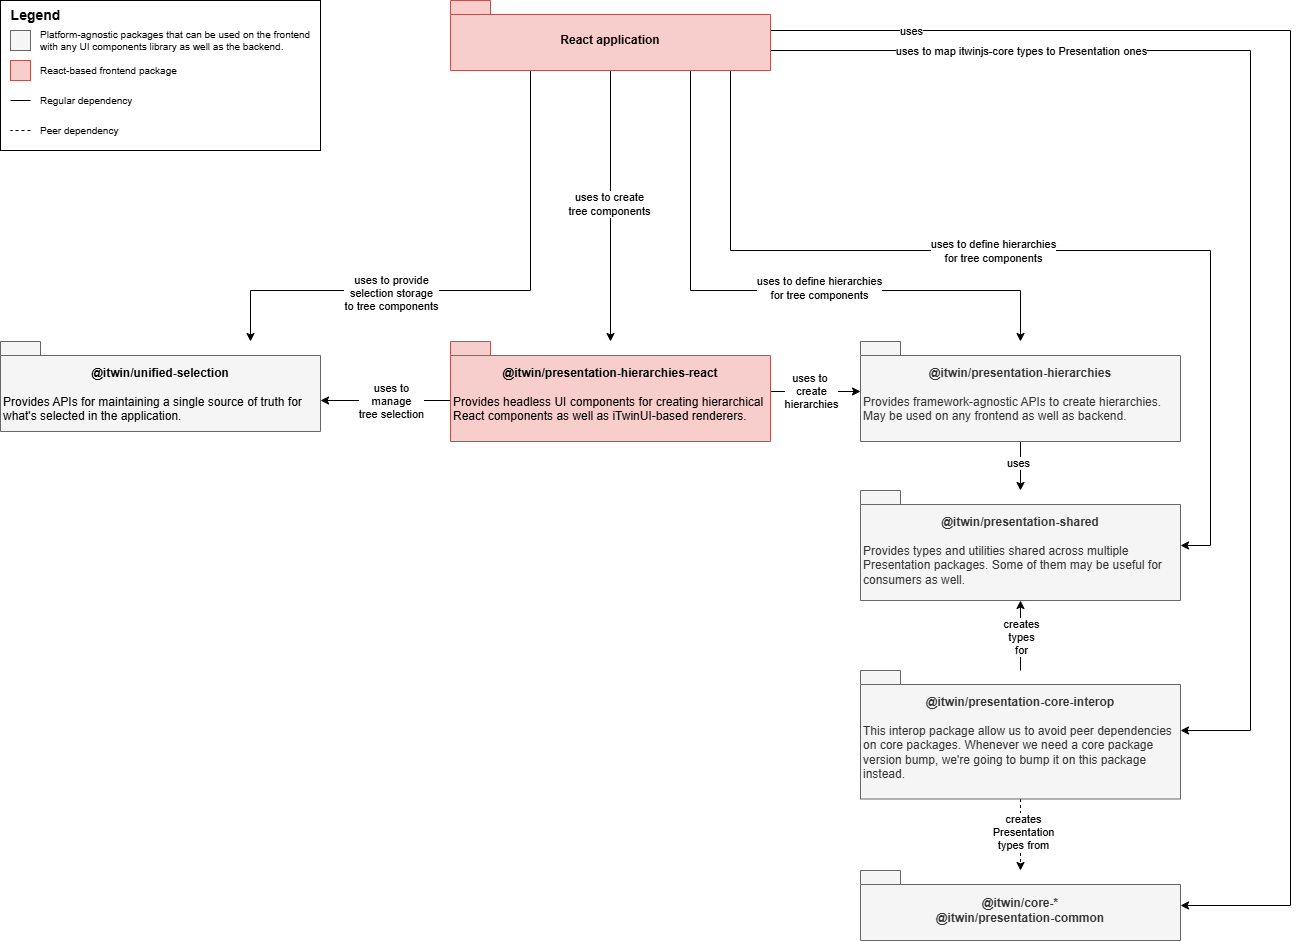
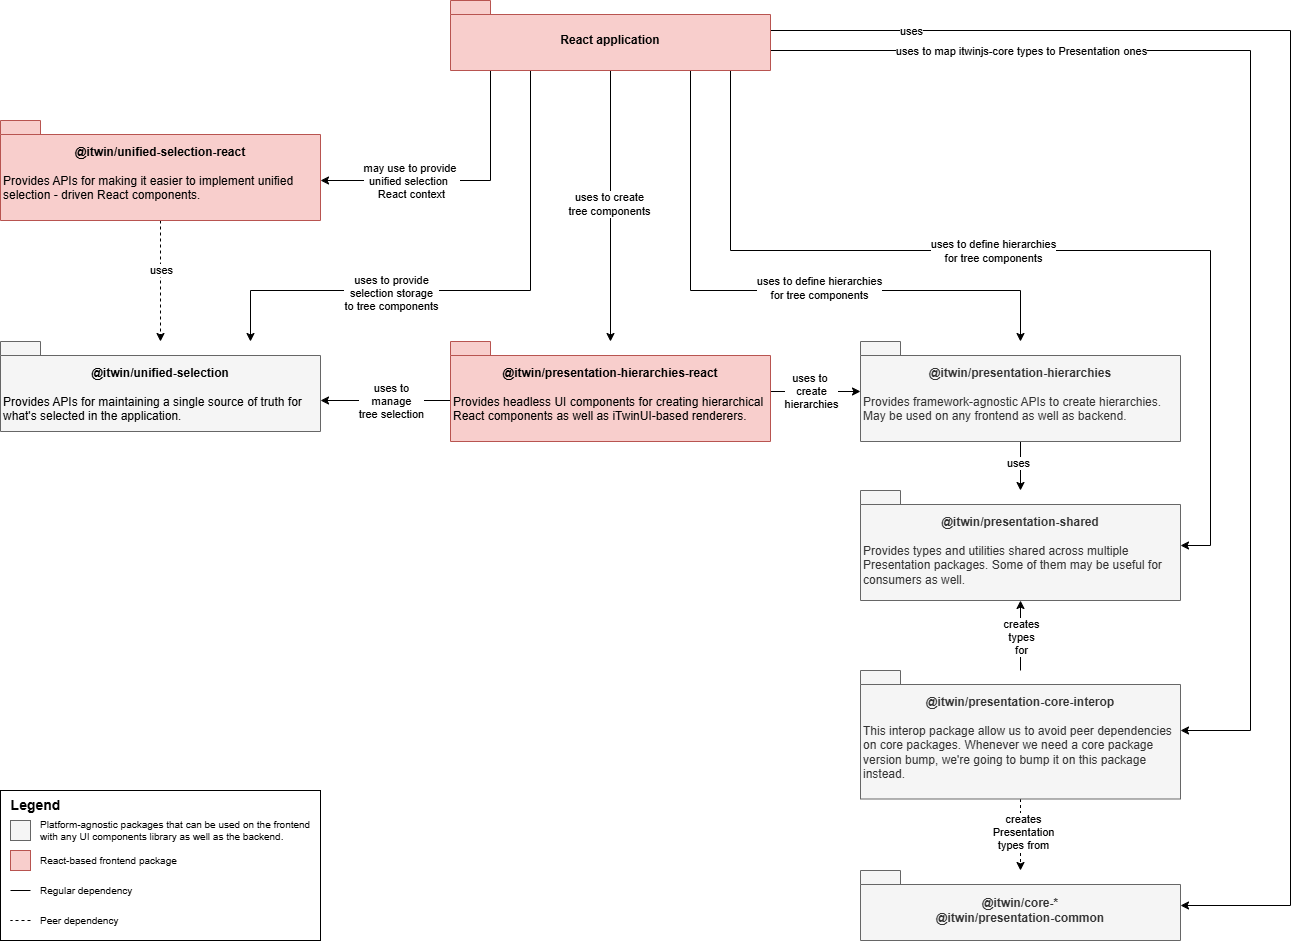
Update root repo readme

Changed region(s): [[0.0, 0.0, 0.2463, 0.2465], [0.0, 0.8321, 0.2463, 0.9862], [0.2771, 0.1541, 0.3387, 0.2157]]

diff --git a/README.md b/README.md
@@ -10,7 +10,12 @@ Presentation packages are part of the [iTwin.js library](https://www.itwinjs.org
 
 ## The packages
 
-Initially, all presentation packages were part of the [itwinjs-core](https://github.com/iTwin/itwinjs-core) repository, releasing in lock-step with the core packages. At some point, some of the packages were moved to this repository, which broke them out of lock-step and allowed them to have their own, much quicker, release cycle. However, the moved packages are still tightly coupled with the ones in core repository. Both - the Presentation packages in [itwinjs-core](https://github.com/iTwin/itwinjs-core) repository and the ones that we moved to this one - are considered _legacy_ packages:
+Initially, all presentation packages were part of the [itwinjs-core](https://github.com/iTwin/itwinjs-core) repository, releasing in lock-step with the core packages. At some point, some of the packages
+were moved to this repository, which broke them out of lock-step and allowed them to have their own, much quicker, release cycle. However, the moved packages are still tightly coupled with the ones in
+core repository. Both - the Presentation packages in [itwinjs-core](https://github.com/iTwin/itwinjs-core) repository and the ones that we moved to this one - are considered [legacy packages](#legacy-packages).
+While the legacy packages are still maintained and contain some APIs that have no replacements, they're gradually being replaced by [new generation packages](#new-generation-packages).
+
+### Legacy packages
 
 | Package                                                                                                                   | Description                                                                                                                                              |
 | ------------------------------------------------------------------------------------------------------------------------- | -------------------------------------------------------------------------------------------------------------------------------------------------------- |
@@ -21,17 +26,33 @@ Initially, all presentation packages were part of the [itwinjs-core](https://git
 | [`@itwin/presentation-testing`](https://github.com/iTwin/presentation/tree/master/packages/testing/README.md)             | Utility APIs for testing components based on _legacy_ Presentation APIs.                                                                                 |
 | [`@itwin/presentation-opentelemetry`](https://github.com/iTwin/presentation/tree/master/packages/opentelemetry/README.md) | APIs for making interop between OpenTelemetry and _legacy_ Presentation types easier.                                                                    |
 
-While the _legacy_ packages are still maintained and contain some APIs that have no replacements, they're gradually being replaced by _new generation_ packages:
+### New generation packages
 
-| Package                                                                                                                           | Description                                                                                                                                                                                                                                                                         | When to use                                                                                                                                                                                  |
-| --------------------------------------------------------------------------------------------------------------------------------- | ----------------------------------------------------------------------------------------------------------------------------------------------------------------------------------------------------------------------------------------------------------------------------------- | -------------------------------------------------------------------------------------------------------------------------------------------------------------------------------------------- |
-| [`@itwin/unified-selection`](https://github.com/iTwin/presentation/tree/master/packages/unified-selection/README.md)              | APIs for maintaining a single source of truth for what's selected in an application.                                                                                                                                                                                                | You want selection to be synchronized between multiple components in your application.                                                                                                       |
-| [`@itwin/presentation-hierarchies-react`](https://github.com/iTwin/presentation/tree/master/packages/hierarchies-react/README.md) | APIs for building a headless UI for rendering tree components based on data in an [iModel](https://www.itwinjs.org/learning/imodels/). Also contains a set of [iTwinUI](https://github.com/iTwin/iTwinUI/tree/main/packages/itwinui-react)-based components for rendering the tree. | You're creating a React application and want a tree component.                                                                                                                               |
-| [`@itwin/presentation-hierarchies`](https://github.com/iTwin/presentation/tree/master/packages/hierarchies/README.md)             | APIs for creating hierarchical data structures. The package doesn't depend on any backend, frontend or UI specific packages, which allows it to be used in both backend and frontend applications, and in case of the latter, it can be used with any UI framework.                 | You want to create hierarchical data structures for use cases other than displaying them in a React component.                                                                               |
-| [`@itwin/presentation-shared`](https://github.com/iTwin/presentation/tree/master/packages/shared/README.md)                       | Shared APIs used throughout the _new generation_ Presentation packages. Includes some utilities that may be useful for external consumers too.                                                                                                                                      | You need one of the utilities provided by the package. While most of them are used by the above packages, some might be useful when defining your hierarchies, getting instance labels, etc. |
-| [`@itwin/presentation-core-interop`](https://github.com/iTwin/presentation/tree/master/packages/core-interop/README.md)           | Interop layer between [itwinjs-core](https://github.com/iTwin/itwinjs-core) and _new generation_ Presentation packages.                                                                                                                                                             | You're using the above packages within an iTwin.js-based application.                                                                                                                        |
+Compared to the legacy packages, the new generation ones are much smaller, have less peer dependencies and are more modular. That makes them easier to consume, as
+bumping a version of one package doesn't require bumping the version of other packages or affect unrelated APIs.
 
-The _new generation_ packages are designed to be more modular and have less peer dependencies, making them easier to consume.
+The new generation packages can be divided into the following groups:
+
+#### Unified selection
+
+| Package                                                                                                                          | Description                                                                                                                                                                                             | When to use                                                                                        |
+| -------------------------------------------------------------------------------------------------------------------------------- | --------------------------------------------------------------------------------------------------------------------------------------------------------------------------------------------------------| ---------------------------------------------------------------------------------------------------|
+| [`@itwin/unified-selection`](https://github.com/iTwin/presentation/tree/master/packages/unified-selection/README.md)             | APIs for maintaining a single source of truth for what's selected in an application.                                                                                                                    | You want selection to be synchronized between multiple components in your application.             |
+| [`@itwin/unified-selection-react`](https://github.com/iTwin/presentation/tree/master/packages/unified-selection-react/README.md) | React APIs for conveniently using the [@itwin/unified-selection](https://github.com/iTwin/presentation/blob/master/packages/unified-selection/README.md) package in React applications and components.  | You're writing a React application that uses unified selection, and want to make your life easier. |
+
+#### Hierarchies building
+
+| Package                                                                                                                           | Description                                                                                                                                                                                                                                                                         | When to use                                                                                                    |
+| --------------------------------------------------------------------------------------------------------------------------------- | ----------------------------------------------------------------------------------------------------------------------------------------------------------------------------------------------------------------------------------------------------------------------------------- | -------------------------------------------------------------------------------------------------------------- |
+| [`@itwin/presentation-hierarchies-react`](https://github.com/iTwin/presentation/tree/master/packages/hierarchies-react/README.md) | APIs for building a headless UI for rendering tree components based on data in an [iModel](https://www.itwinjs.org/learning/imodels/). Also contains a set of [iTwinUI](https://github.com/iTwin/iTwinUI/tree/main/packages/itwinui-react)-based components for rendering the tree. | You're creating a React application and want a tree component.                                                 |
+| [`@itwin/presentation-hierarchies`](https://github.com/iTwin/presentation/tree/master/packages/hierarchies/README.md)             | APIs for creating hierarchical data structures. The package doesn't depend on any backend, frontend or UI specific packages, which allows it to be used in both backend and frontend applications, and in case of the latter, it can be used with any UI framework.                 | You want to create hierarchical data structures for use cases other than displaying them in a React component. |
+
+#### Utility
+
+| Package                                                                                                                 | Description                                                                                                                                    | When to use                                                                                                                                                                                  |
+| ----------------------------------------------------------------------------------------------------------------------- | ---------------------------------------------------------------------------------------------------------------------------------------------- | -------------------------------------------------------------------------------------------------------------------------------------------------------------------------------------------- |
+| [`@itwin/presentation-shared`](https://github.com/iTwin/presentation/tree/master/packages/shared/README.md)             | Shared APIs used throughout the _new generation_ Presentation packages. Includes some utilities that may be useful for external consumers too. | You need one of the utilities provided by the package. While most of them are used by the above packages, some might be useful when defining your hierarchies, getting instance labels, etc. |
+| [`@itwin/presentation-core-interop`](https://github.com/iTwin/presentation/tree/master/packages/core-interop/README.md) | Interop layer between [itwinjs-core](https://github.com/iTwin/itwinjs-core) and _new generation_ Presentation packages.                        | You're using the above packages within an iTwin.js-based application.                                                                                                                        |
 
 The below diagram shows the typical dependency structure of a React application or component that uses Presentation packages to create a tree component:
 
